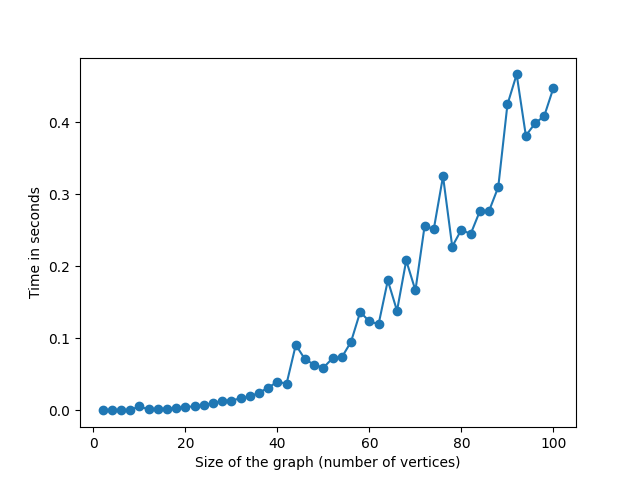
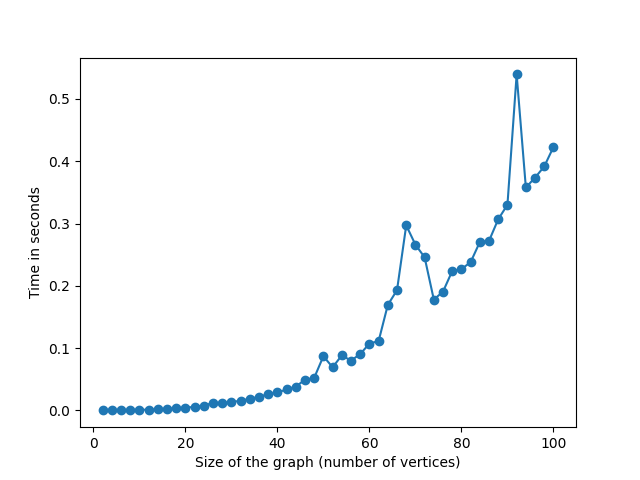
refactor: remove comments and clean up functions

diff --git a/branching.py b/branching.py
@@ -22,13 +22,8 @@ def calculate_vc_lower_bound(g):
 
 def bf_vc_solver_v1_ext(g, edge_list, solution):
    if is_vc(g, solution):
-      # DEBUG
-   #   print("this is a solution", solution)
       return solution
    u, v = edge_list.pop()
-   #DEBUG
-#  print("solution",solution)
-#  print("edge list", edge_list, "branching edge", (u, v))
    first_case = bf_vc_solver_v1_ext(g, edge_list.copy(), solution.union({u}))
    second_case = bf_vc_solver_v1_ext(g, edge_list.copy(), solution.union({v}))
    return min(first_case, second_case, key=len)
@@ -91,21 +86,10 @@ def bf_vc_solver_v3_ext(g, edge_list, partial_solution, best_sol):
    return best_sol
 
 def bf_vc_solver_v3(g):
-   return bf_vc_solver_v3_ext(g, list(g.edges), set(), list(g.nodes))
+   return bf_vc_solver_v3_ext(g, list(g.edges), set(), coupling(g))
 
 def bf_vc_solver_v4(g):
    node_degrees = calculate_all_degrees(g)
    cmp_func = lambda a : -node_degrees[a[0]]
    sorted_edge_list = sorted(list(g.edges), key=cmp_func)
-   return bf_vc_solver_v3_ext(g, sorted_edge_list, set(), list(g.nodes))
-
-if __name__ == "__main__":
-    g = nx.Graph()
-    g.add_nodes_from([0, 1, 2, 3, 4, 5, 6, 7])
-    g.add_edges_from(
-        [(0, 1), (0, 2), (0, 3), (0, 4), (0, 5), (0, 6), (0, 7), (1, 3), (1, 5), (1, 6), (1, 7), (1, 4), (2, 3), (2, 5), (2, 6), (2, 7), (2, 4), (3, 4), (3, 5), (3, 6), (3, 7), (4, 5), (4, 6), (4, 7), (5, 7), (5, 6), (6, 7)]
-    )
-    print(bf_vc_solver_v4(g))
-    # show_solver_graph(1/2, bf_vc_solver_v1, 15)
-    # show_solver_graph(1/2, bf_vc_solver_v3, 120)
-    # experimental_test_brute_vc_v3()
+   return bf_vc_solver_v3_ext(g, sorted_edge_list, set(), coupling(g))

diff --git a/testing.py b/testing.py
@@ -72,34 +72,6 @@ def estimate_approximation_ratio(approximate_vc_solver, optimal_vc_solver, max_s
       optimal_sol = optimal_vc_solver(g)
       if len(optimal_sol) == 0 : continue
       ratio = len(approx_sol) / len(optimal_sol)
-      # if ratio < 1 : # DEBUG
-      #    print(g.edges)
-      #    print(g.nodes)
-      #    print("optimal", optimal_sol)
-      #    print("approx", approx_sol)
-      #    nx.draw(g, with_labels=True)
-      #    plt.show()
-      #    return #DEBUG
       xpoints.append(n)
       ypoints.append(ratio)
    return np.array(xpoints), np.array(ypoints)
-
-if __name__ == "__main__":
-   # Finding Nmax for coupling and gredy
-   # g = generate_random_graph(200, 0.5)
-   # greedy(g)
-
-   # Nmax = 100
-   # p = 1/2
-   # save_solver_graph(p, coupling, Nmax, f="coupling_light_graph.png")
-   # save_solver_log_graph(p, coupling, Nmax, f="coupling_log_light_graph.png")
-   # save_solver_graph(p, greedy, Nmax, f="greedy_light_graph.png")
-   # save_solver_log_graph(p, greedy, Nmax, f="greedy_log_dense_graph.png")
-
-   # Finding Nmax for branching v1
-   # g = generate_random_graph(10, 1/2)
-   # bf_vc_solver_v1(g)
-
-   save_solver_graph(0.5, bf_vc_solver_v4, 12, "bf_vc_solver_v4.png", nb_of_points=12)
-   # xpoints, ypoints = estimate_approximation_ratio(greedy, bf_vc_solver_v4, 15, p=0.5, nb_steps=15)
-   # save_graph(xpoints, ypoints, y_label="Ratio Approximate Solution Length / Optimal Length", filename="greedy_dense_ratio.png")

diff --git a/basic_operations.py b/basic_operations.py
@@ -22,10 +22,7 @@ def calculate_all_degrees(g):
   list_of_nodes = list(g.nodes)
   node_degrees = {}
   for node in list_of_nodes:
-      node_degrees[node] = 0
-  for node in list_of_nodes:
-    for _ in g.adj[node]:
-      node_degrees[node] += 1
+      node_degrees[node] = len(list(g.adj[node]))
   return node_degrees
 
 def get_node_with_max_degrees(g):
@@ -55,7 +52,6 @@ def remove_edges_containing_vertex(edges_list, vertex):
          res.remove(edge)
    return res
 
-# FIXME : might not need this
 def is_vc(g, c):
     G = delete_list_nodes(g, c)
     return len(G.edges) == 0
